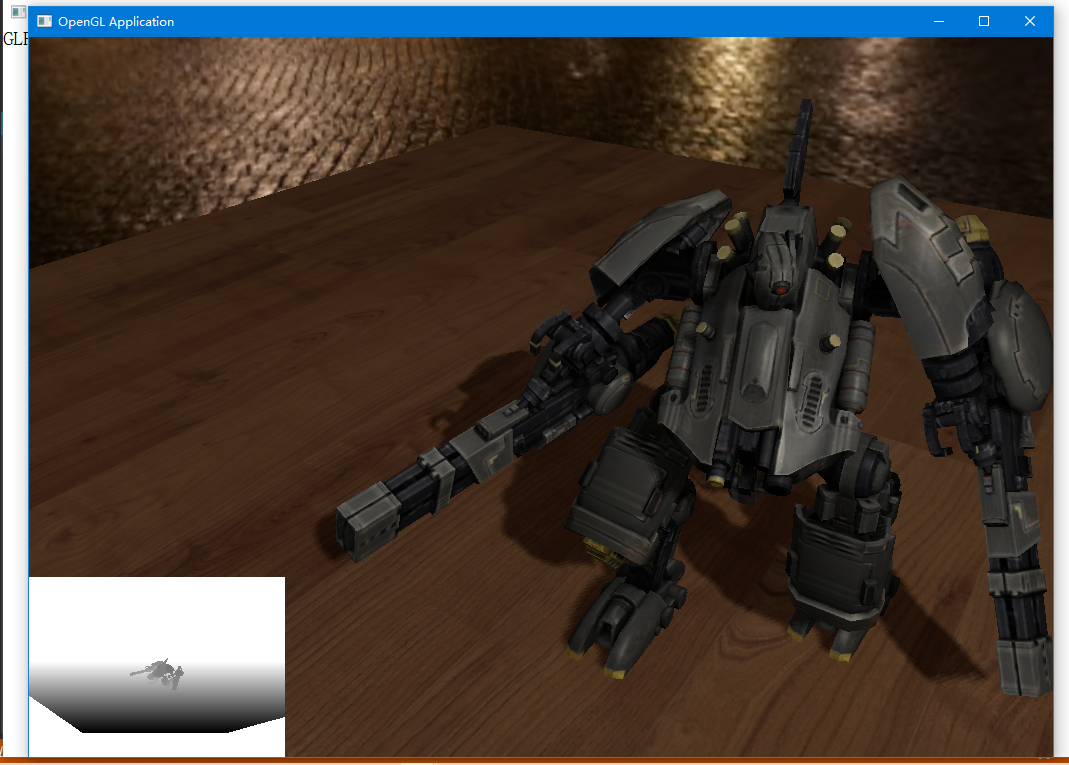
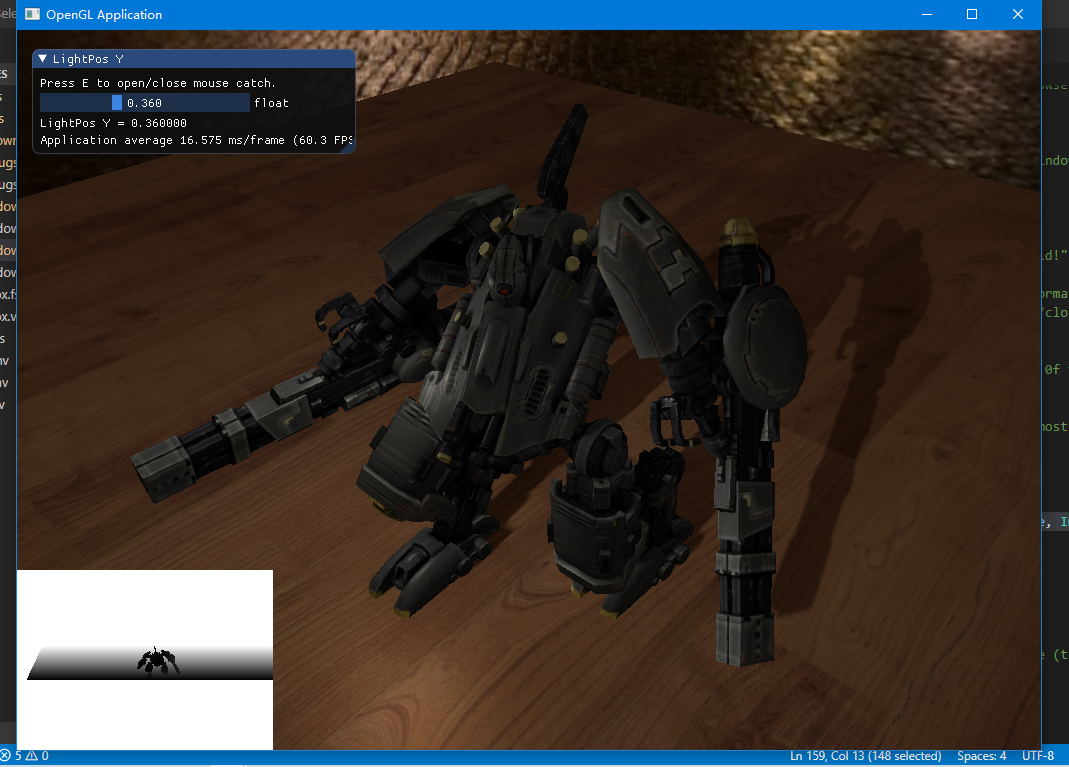
finished shadow mapping

diff --git a/IinCoo/engine/Application.h b/IinCoo/engine/Application.h
@@ -4,7 +4,9 @@
 #include <GLFW/glfw3.h>
 #include <iostream>
 #include "Camera.h"
-
+#include "../third-party/imgui/imgui.h"
+#include "../third-party/imgui/imgui_impl_glfw.h"
+#include "../third-party/imgui/imgui_impl_opengl3.h"
 
 class Application
 {
@@ -20,12 +22,14 @@ public:
 	void Run();
 	virtual void SenceInit() = 0;
 	virtual void DrawLoop(Camera) = 0;
+	virtual void ImguiFunc() = 0;
 	virtual ~Application();
 
 
 	static void FrameBufferSizeChangeCallBack(GLFWwindow *_window,int _width,int _height);
 	static void MouseCallBack(GLFWwindow* window, double xpos, double ypos);
 	static void ScrollCallBack(GLFWwindow* window, double xoffset, double yoffset);
+	static void KeyCallBack(GLFWwindow* window, int key, int scancode, int action, int mods);
 	void ProcessInput(GLFWwindow* _window);
 };
 

diff --git a/IinCoo/Main.cpp b/IinCoo/Main.cpp
@@ -2,7 +2,8 @@
 
 int main()
 {
-	Test_02_ShadowMap demo = Test_02_ShadowMap();
-	demo.Run();
+	//Test_01_SkyBox demo_01 = Test_01_SkyBox();
+	Test_02_ShadowMap demo_02 = Test_02_ShadowMap();
+	demo_02.Run();
 }
 

diff --git a/IinCoo/demos/Test_01_SkyBox.h b/IinCoo/demos/Test_01_SkyBox.h
@@ -21,6 +21,10 @@ public:
 		glm::mat4 view = camera.GetViewMatrix();
 		skybox.Draw(view,projection);
 	}
+	virtual void ImguiFunc() override
+	{
+
+	}
 
 private:
 	Skybox skybox;
